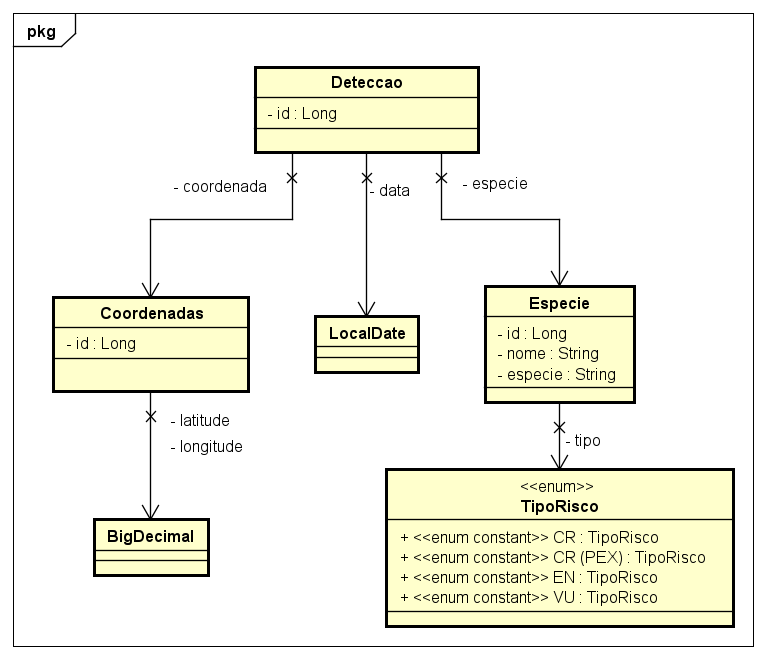
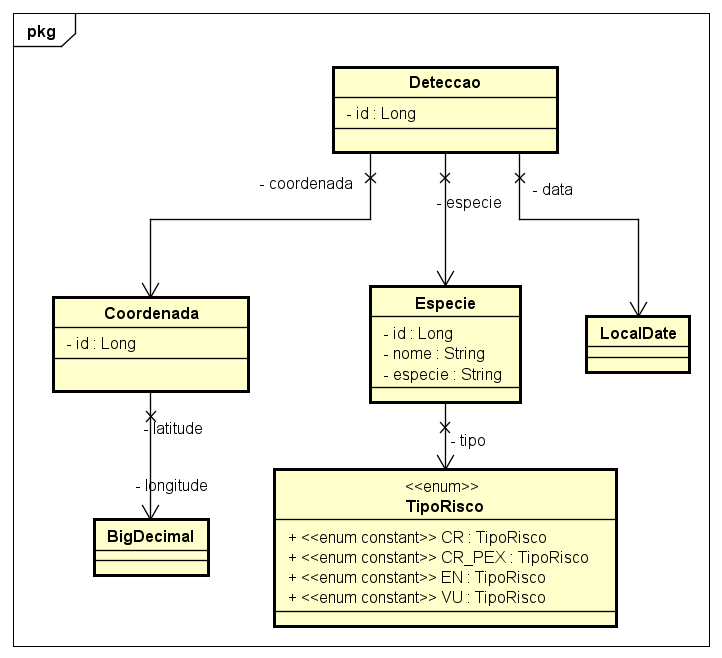
AbstractRequest criado

diff --git a/src/main/java/br/com/fiap/ferramenta/service/CoordenadaService.java b/src/main/java/br/com/fiap/ferramenta/service/CoordenadaService.java
@@ -2,25 +2,23 @@ package br.com.fiap.ferramenta.service;
 
 import br.com.fiap.ferramenta.dto.request.CoordenadaRequest;
 import br.com.fiap.ferramenta.dto.response.CoordenadaResponse;
-import br.com.fiap.ferramenta.entity.Coordenadas;
-import br.com.fiap.ferramenta.repository.CoordenadasRepository;
+import br.com.fiap.ferramenta.entity.Coordenada;
+import br.com.fiap.ferramenta.repository.CoordenadaRepository;
 import org.springframework.beans.factory.annotation.Autowired;
 import org.springframework.data.domain.Example;
 import org.springframework.stereotype.Service;
 
 import java.util.Collection;
-import java.util.List;
-import java.util.Optional;
 
 @Service
-public class CoordenadasService implements ServiceDTO<Coordenadas, CoordenadaRequest, CoordenadaResponse> {
+public class CoordenadaService implements ServiceDTO<Coordenada, CoordenadaRequest, CoordenadaResponse> {
 
     @Autowired
-    private CoordenadasRepository repo;
+    private CoordenadaRepository repo;
 
     @Override
-    public Coordenadas toEntity(CoordenadaRequest r) {
-        return Coordenadas.builder()
+    public Coordenada toEntity(CoordenadaRequest r) {
+        return Coordenada.builder()
                 .id(r.id())
                 .longitude(r.longitude())
                 .latitude(r.latitude())
@@ -28,7 +26,7 @@ public class CoordenadasService implements ServiceDTO<Coordenadas, CoordenadaReq
     }
 
     @Override
-    public CoordenadaResponse toResponse(Coordenadas e) {
+    public CoordenadaResponse toResponse(Coordenada e) {
         return CoordenadaResponse.builder()
                 .id(e.getId())
                 .longitude(e.getLongitude())
@@ -37,17 +35,17 @@ public class CoordenadasService implements ServiceDTO<Coordenadas, CoordenadaReq
     }
 
     @Override
-    public Collection<Coordenadas> findAll(Example<Coordenadas> example) {
+    public Collection<Coordenada> findAll(Example<Coordenada> example) {
         return repo.findAll( example );
     }
 
     @Override
-    public Coordenadas findById(Long id) {
+    public Coordenada findById(Long id) {
         return repo.findById( id ).orElse( null );
     }
 
     @Override
-    public Coordenadas save(Coordenadas e) {
+    public Coordenada save(Coordenada e) {
         return repo.save( e );
     }
 }

diff --git a/src/main/java/br/com/fiap/ferramenta/service/DeteccaoService.java b/src/main/java/br/com/fiap/ferramenta/service/DeteccaoService.java
@@ -9,7 +9,6 @@ import org.springframework.data.domain.Example;
 import org.springframework.stereotype.Service;
 
 import java.util.Collection;
-import java.util.List;
 
 @Service
 public class DeteccaoService implements ServiceDTO<Deteccao, DeteccaoRequest, DeteccaoResponse>{
@@ -21,20 +20,20 @@ public class DeteccaoService implements ServiceDTO<Deteccao, DeteccaoRequest, De
     private EspecieService especieService;
 
     @Autowired
-    private CoordenadasService coordenadasService;
+    private CoordenadaService coordenadaService;
 
     @Override
     public Deteccao toEntity(DeteccaoRequest r) {
 
         var especie = especieService.findById(r.especie().id());
 
-        var coordenadas = coordenadasService.findById(r.especie().id());
+        var coordenada = coordenadaService.findById(r.coordenada().id());
 
         return Deteccao.builder()
                 .id(r.id())
                 .data(r.data())
                 .especie(especie)
-                .coordenada(coordenadas)
+                .coordenada(coordenada)
                 .build();
     }
 
@@ -43,13 +42,13 @@ public class DeteccaoService implements ServiceDTO<Deteccao, DeteccaoRequest, De
 
         var especie = especieService.toResponse(e.getEspecie());
 
-        var coordenadas = coordenadasService.toResponse(e.getCoordenada());
+        var coordenada = coordenadaService.toResponse(e.getCoordenada());
 
         return DeteccaoResponse.builder()
                 .id(e.getId())
                 .data(e.getData())
                 .especie(especie)
-                .coordenada(coordenadas)
+                .coordenada(coordenada)
                 .build();
     }
 

diff --git a/src/main/java/br/com/fiap/ferramenta/entity/Coordenada.java b/src/main/java/br/com/fiap/ferramenta/entity/Coordenada.java
@@ -7,7 +7,6 @@ import lombok.Data;
 import lombok.NoArgsConstructor;
 
 import java.math.BigDecimal;
-import java.time.LocalDate;
 
 @Data
 @NoArgsConstructor
@@ -15,14 +14,14 @@ import java.time.LocalDate;
 @Builder
 
 @Entity
-@Table(name = "TBL_COORDENADAS")
-public class Coordenadas {
+@Table(name = "TBL_COORDENADA")
+public class Coordenada {
 
     @Id
-    @GeneratedValue(strategy = GenerationType.SEQUENCE, generator = "SQ_COORDENADAS")
-    @SequenceGenerator(name = "SQ_COORDENADAS", sequenceName = "SQ_COORDENADAS", allocationSize = 1)
+    @GeneratedValue(strategy = GenerationType.SEQUENCE, generator = "SQ_COORDENADA")
+    @SequenceGenerator(name = "SQ_COORDENADA", sequenceName = "SQ_COORDENADA", allocationSize = 1)
 
-    @Column(name = "ID_COORDENADAS")
+    @Column(name = "ID_COORDENADA")
     private Long id;
 
     @Column(name = "LONGITUDE")

diff --git a/src/main/java/br/com/fiap/ferramenta/entity/Deteccao.java b/src/main/java/br/com/fiap/ferramenta/entity/Deteccao.java
@@ -29,11 +29,11 @@ public class Deteccao {
 
     @ManyToOne(fetch = FetchType.EAGER, cascade = {CascadeType.MERGE, CascadeType.PERSIST})
     @JoinColumn(
-            name = "COORDENADAS", // Nome da coluna de chave estrangeira
-            referencedColumnName = "ID_COORDENADAS",
+            name = "COORDENADA", // Nome da coluna de chave estrangeira
+            referencedColumnName = "ID_COORDENADA",
             foreignKey = @ForeignKey(name = "FK_DETECCAO_COORDENADA")
     )
-    private Coordenadas coordenada;
+    private Coordenada coordenada;
 
     @ManyToOne(fetch = FetchType.EAGER, cascade = {CascadeType.MERGE, CascadeType.PERSIST})
     @JoinColumn(

diff --git a/src/main/java/br/com/fiap/ferramenta/repository/CoordenadaRepository.java b/src/main/java/br/com/fiap/ferramenta/repository/CoordenadaRepository.java
@@ -1,9 +1,9 @@
 package br.com.fiap.ferramenta.repository;
 
-import br.com.fiap.ferramenta.entity.Coordenadas;
+import br.com.fiap.ferramenta.entity.Coordenada;
 import org.springframework.data.jpa.repository.JpaRepository;
 import org.springframework.stereotype.Repository;
 
 @Repository
-public interface CoordenadasRepository extends JpaRepository<Coordenadas, Long> {
+public interface CoordenadaRepository extends JpaRepository<Coordenada, Long> {
 }

diff --git a/src/main/java/br/com/fiap/ferramenta/service/EspecieService.java b/src/main/java/br/com/fiap/ferramenta/service/EspecieService.java
@@ -9,8 +9,6 @@ import org.springframework.data.domain.Example;
 import org.springframework.stereotype.Service;
 
 import java.util.Collection;
-import java.util.List;
-import java.util.Optional;
 
 @Service
 public class EspecieService implements ServiceDTO<Especie, EspecieRequest, EspecieResponse>{

diff --git a/src/main/java/br/com/fiap/ferramenta/dto/request/AbstractRequest.java b/src/main/java/br/com/fiap/ferramenta/dto/request/AbstractRequest.java
@@ -1,0 +1,10 @@
+package br.com.fiap.ferramenta.dto.request;
+
+import jakarta.validation.constraints.NotNull;
+
+public record AbstractRequest(
+        @NotNull(message = "O id é campo obrigatório")
+        Long id
+
+) {
+}

diff --git a/src/main/java/br/com/fiap/ferramenta/dto/request/DeteccaoRequest.java b/src/main/java/br/com/fiap/ferramenta/dto/request/DeteccaoRequest.java
@@ -15,7 +15,7 @@ public record DeteccaoRequest(
         LocalDate data,
 
         @NotNull
-        EspecieRequest especie,
+        AbstractRequest especie,
 
         @NotNull
         CoordenadaRequest coordenada

diff --git a/src/main/java/br/com/fiap/ferramenta/FerramentaApplication.java b/src/main/java/br/com/fiap/ferramenta/FerramentaApplication.java
@@ -14,7 +14,7 @@ public class FerramentaApplication {
 	}
 	@GetMapping(value = "/")
 	public String index(){
-		return "NOME DA EMPRESA";
+		return "ECO-NET";
 	}
 
 }
